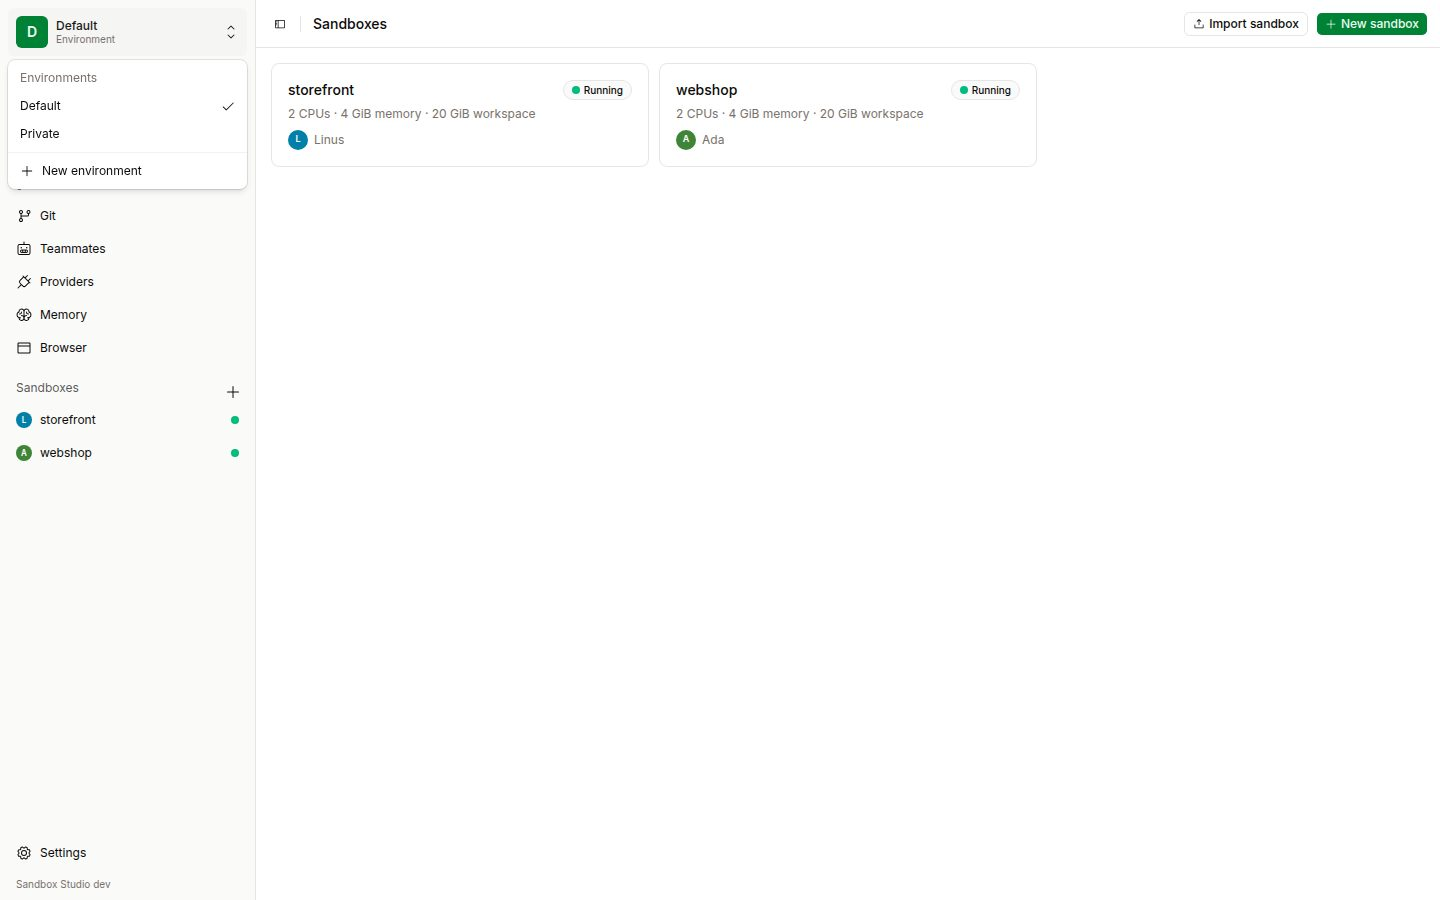
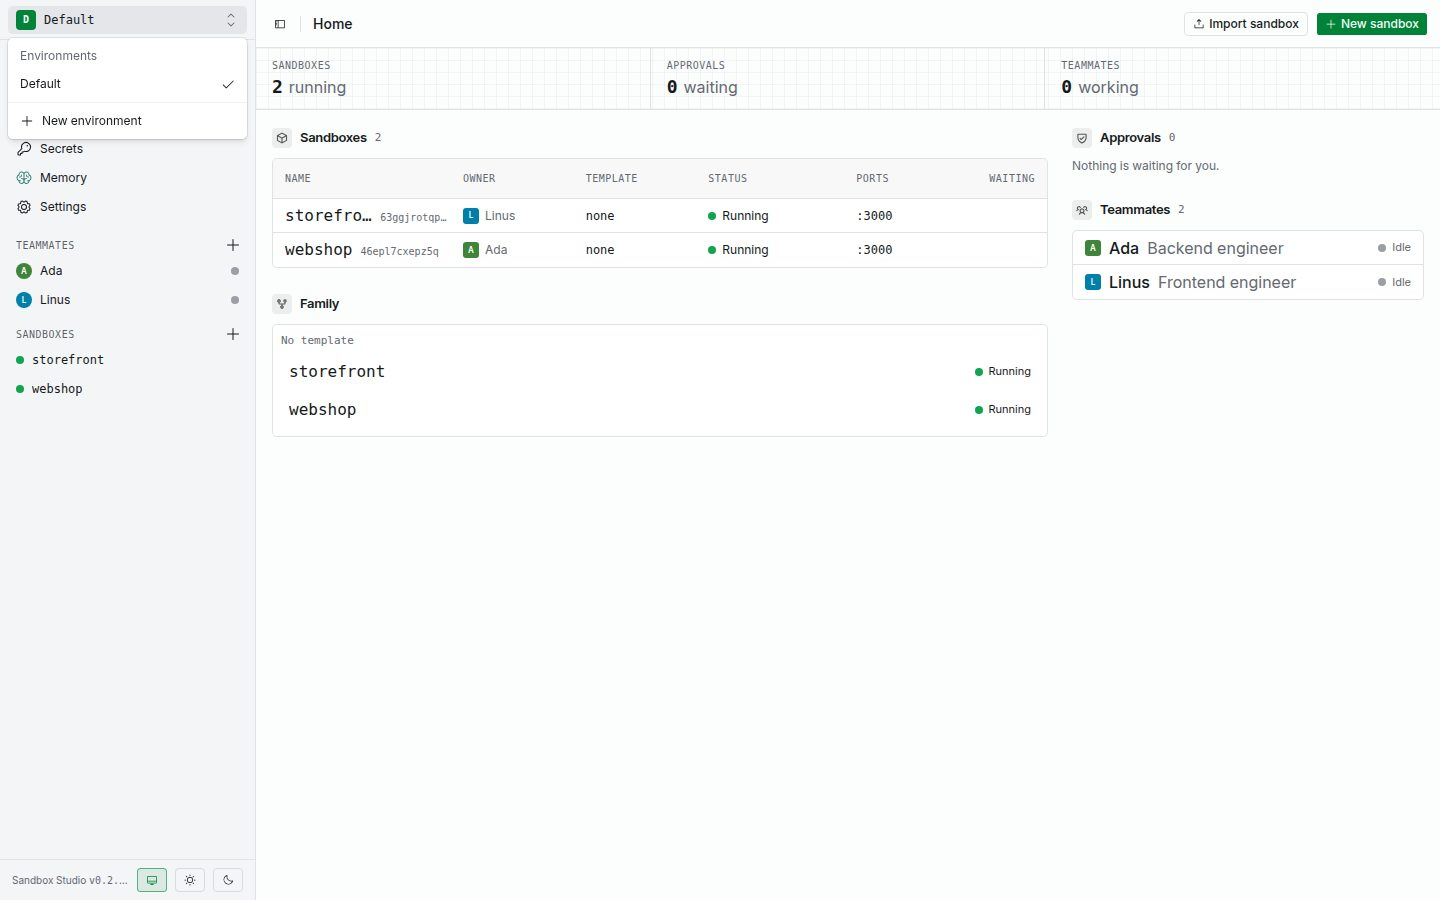
Regenerate the docs screenshots from the current UI and fix the captions that changed

diff --git a/site/src/content/docs/index.md b/site/src/content/docs/index.md
@@ -6,7 +6,7 @@ hero:
   tagline: Persistent Linux sandboxes with network controls, protected credentials, and review before configured Git pushes reach a forge.
   image:
     file: ../../assets/screenshots/hero-dark.jpg
-    alt: A terminal open inside a Sandbox Studio workspace
+    alt: A sandbox's dashboard in Sandbox Studio's dark theme
   actions:
     - text: Get started
       link: /sandbox-studio/getting-started/
@@ -25,7 +25,7 @@ Sandbox Studio runs OpenCode, Claude Code, or Codex inside a microVM on your mac
 - **Secrets stay on the host.** Sandboxes receive placeholders; Studio substitutes secret values only for approved, host-bound HTTPS traffic.
 - **You review configured Git pushes.** Forges added under **Settings → Git** receive pushes only after you approve the staged change.
 
-![Sandbox Studio showing the overview with two running sandboxes](../../assets/screenshots/overview.jpg)
+![Sandbox Studio's Home page with two running sandboxes](../../assets/screenshots/overview.jpg)
 
 ## Choose a guide
 

diff --git a/site/src/content/docs/git-review.md b/site/src/content/docs/git-review.md
@@ -5,7 +5,7 @@ description: Keep forge credentials on the host and approve pushes before Studio
 
 For a forge added on an environment's **Git** page, Studio can act as the virtual Git remote. When a sandbox pushes through Studio, the change is staged in a private per-sandbox repository and appears in the approval inbox as a diff. The upstream branch does not change until you approve the push.
 
-![The Git settings page showing configured forges and a staged push](../../assets/screenshots/git.jpg)
+![The Git settings page showing configured forges](../../assets/screenshots/git.jpg)
 
 ## Add a forge
 

diff --git a/site/src/content/docs/browser.md b/site/src/content/docs/browser.md
@@ -5,7 +5,7 @@ description: Give a teammate a controlled Chromium browser without exposing its 
 
 Each teammate has its own Chromium browser running in a separate microVM. Agents control it with browser tools; they do not receive a remote debugging port. Cookies and logins belong to that teammate's browser profile.
 
-![A teammate's Browser tab showing its live view, action rules, and Start control](../../assets/screenshots/browser.jpg)
+![A teammate's Browser tab with its Start control and the Live, History, and Rules views](../../assets/screenshots/browser.jpg)
 
 ## Approve actions and access
 

diff --git a/site/src/content/docs/memory.md b/site/src/content/docs/memory.md
@@ -7,7 +7,7 @@ Memory is scoped to an environment. Each teammate has its own memory, and teamma
 
 Studio can recall relevant notes when a supported agent session starts or when you send a prompt. Harness hooks can also send selected conversation text for fact extraction after a session event. Memory capture is best-effort; it does not block the agent session.
 
-![The Memory page showing saved facts and pages](../../assets/screenshots/memory.jpg)
+![The Memory page showing saved facts](../../assets/screenshots/memory.jpg)
 
 ## Review memory in Studio
 
